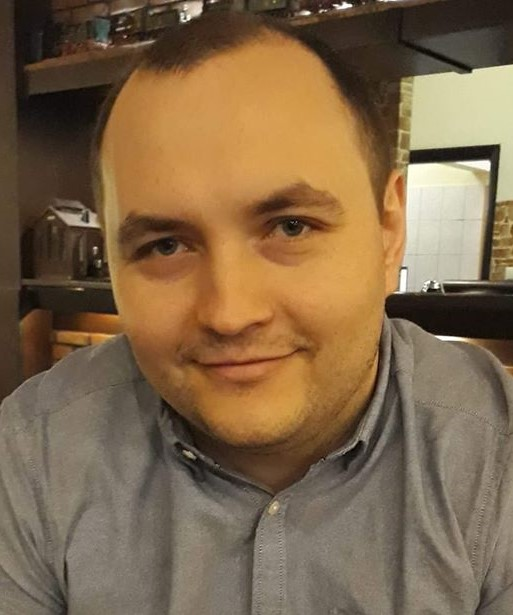
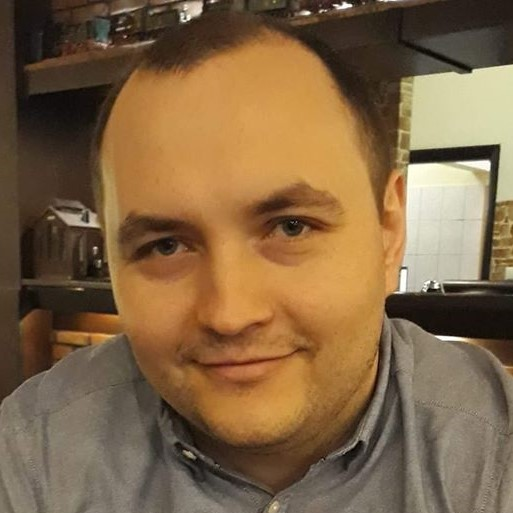
hero section mobile

diff --git a/src/scss/modules/hero.scss b/src/scss/modules/hero.scss
@@ -1,0 +1,54 @@
+
+@import "_variables";
+
+.hero {
+    background: $white;
+    margin: 64px 16px 88px 16px;
+    text-align: center;
+    display: flex;
+    flex-direction: column;
+    align-items: center;
+
+    &__image-container {
+        display: flex;
+        justify-content: center;
+    }
+
+    &__image {
+        width: 90px;
+        height: 90px;
+        border-radius: 50%;
+        border: 16px solid $blue-lightest;
+    }
+
+    &__hello {
+        display: none;
+    }
+
+    &__header {
+        color: $text-dark;
+        margin-bottom: 16px;
+        font-size: 26px;
+    }
+
+    &__special {
+        color: $blue;
+    }
+
+    &__description {
+        color: $text-default;
+        font-size: 16px;
+    }
+
+    &__link {
+        color: $link;
+    }
+
+    &__mail {
+        color: $white;
+        background: $link;
+        border-radius: 64px;
+        padding: 4px 24px;
+        margin: 0px 40px;
+    }
+}

diff --git a/src/pages/index.html b/src/pages/index.html
@@ -22,11 +22,10 @@
       </div>
       <div class="hero__about">
         <h1 class="hero__header">My name is Darek and I'm <span class="hero__special">fullstack developer</span></h1>
-        <p class="hero__paragraph">You might be interested in checking the list of <a class="hero__link"
+        <p class="hero__description">You might be interested in checking the list of <a class="hero__link"
             href="#skills">my skills</a>.
           Don't forget to have a glimnpse at <a class="hero__link" href="#projects">my projects</a>.
-          Currently I'm looking for a new challenges so if you have one - <a class="mail" href="#contact">contact me
-            😊</a>
+          Currently I'm looking for a new challenges so if you have one - <a class="hero__link" href="#contact">contact me</a> 😊
         </p>
       </div>
       <a class="hero__mail" href="mailto:dariusz.slomka88@gmail.com">dariusz.slomka88@gmail.com</a>

diff --git a/src/scss/main.scss b/src/scss/main.scss
@@ -1,13 +1,14 @@
 @import "~normalize.css";
 
 @import "_variables";
-@import "modules/hello.scss";
+@import "modules/hero.scss";
 
-body {
-  background: $wtf;
-  color: #fff;
+main {
   display: flex;
+  flex-direction: column;
   align-items: center;
   justify-content: center;
   min-height: 100vh;
+  font-family: 'Nunito', sans-serif;
+  line-height: 32px;
 }

diff --git a/src/scss/_variables.scss b/src/scss/_variables.scss
@@ -1,3 +1,5 @@
+@import url('https://fonts.googleapis.com/css2?family=Nunito:wght@300&display=swap');
+
 $white: #FFFFFF;
 $black: #000000;
 $blue-lightest: #F6F9FD;
@@ -13,3 +15,4 @@ $grey: #1E1E1E;
 $link: #4DA8FF;
 $text-muted: #66788A;
 $text-default: #425A70;
+$text-dark: #234361;
